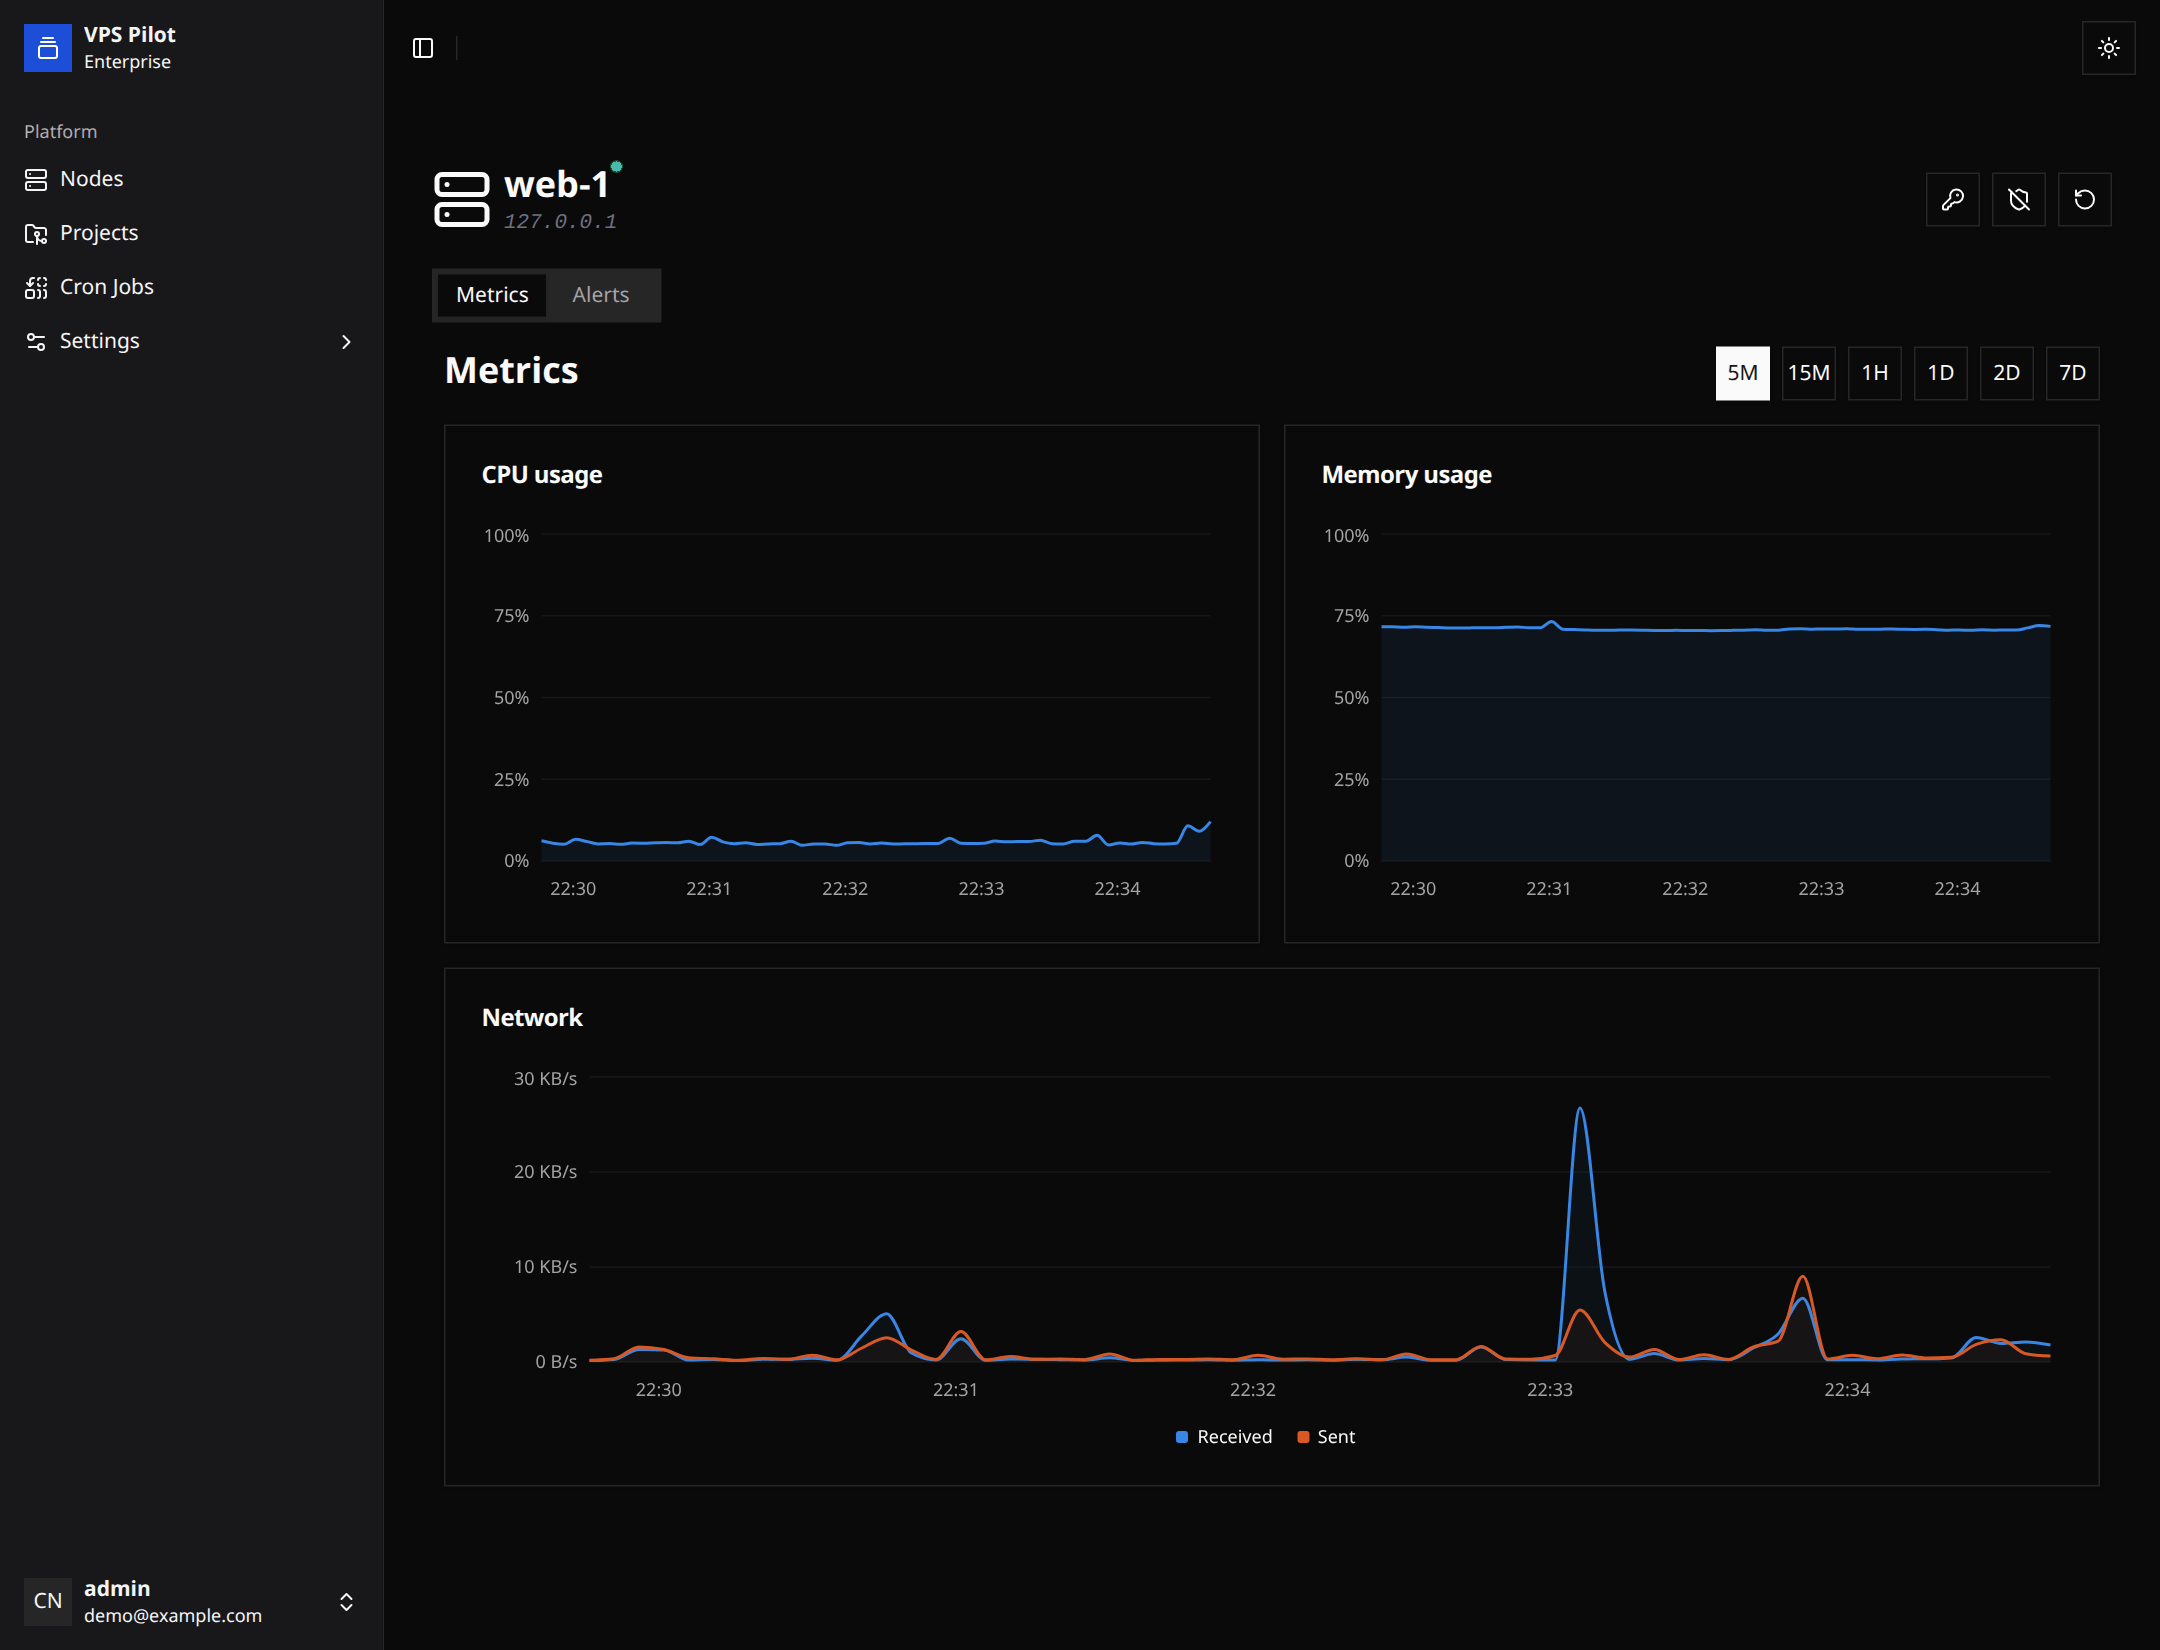
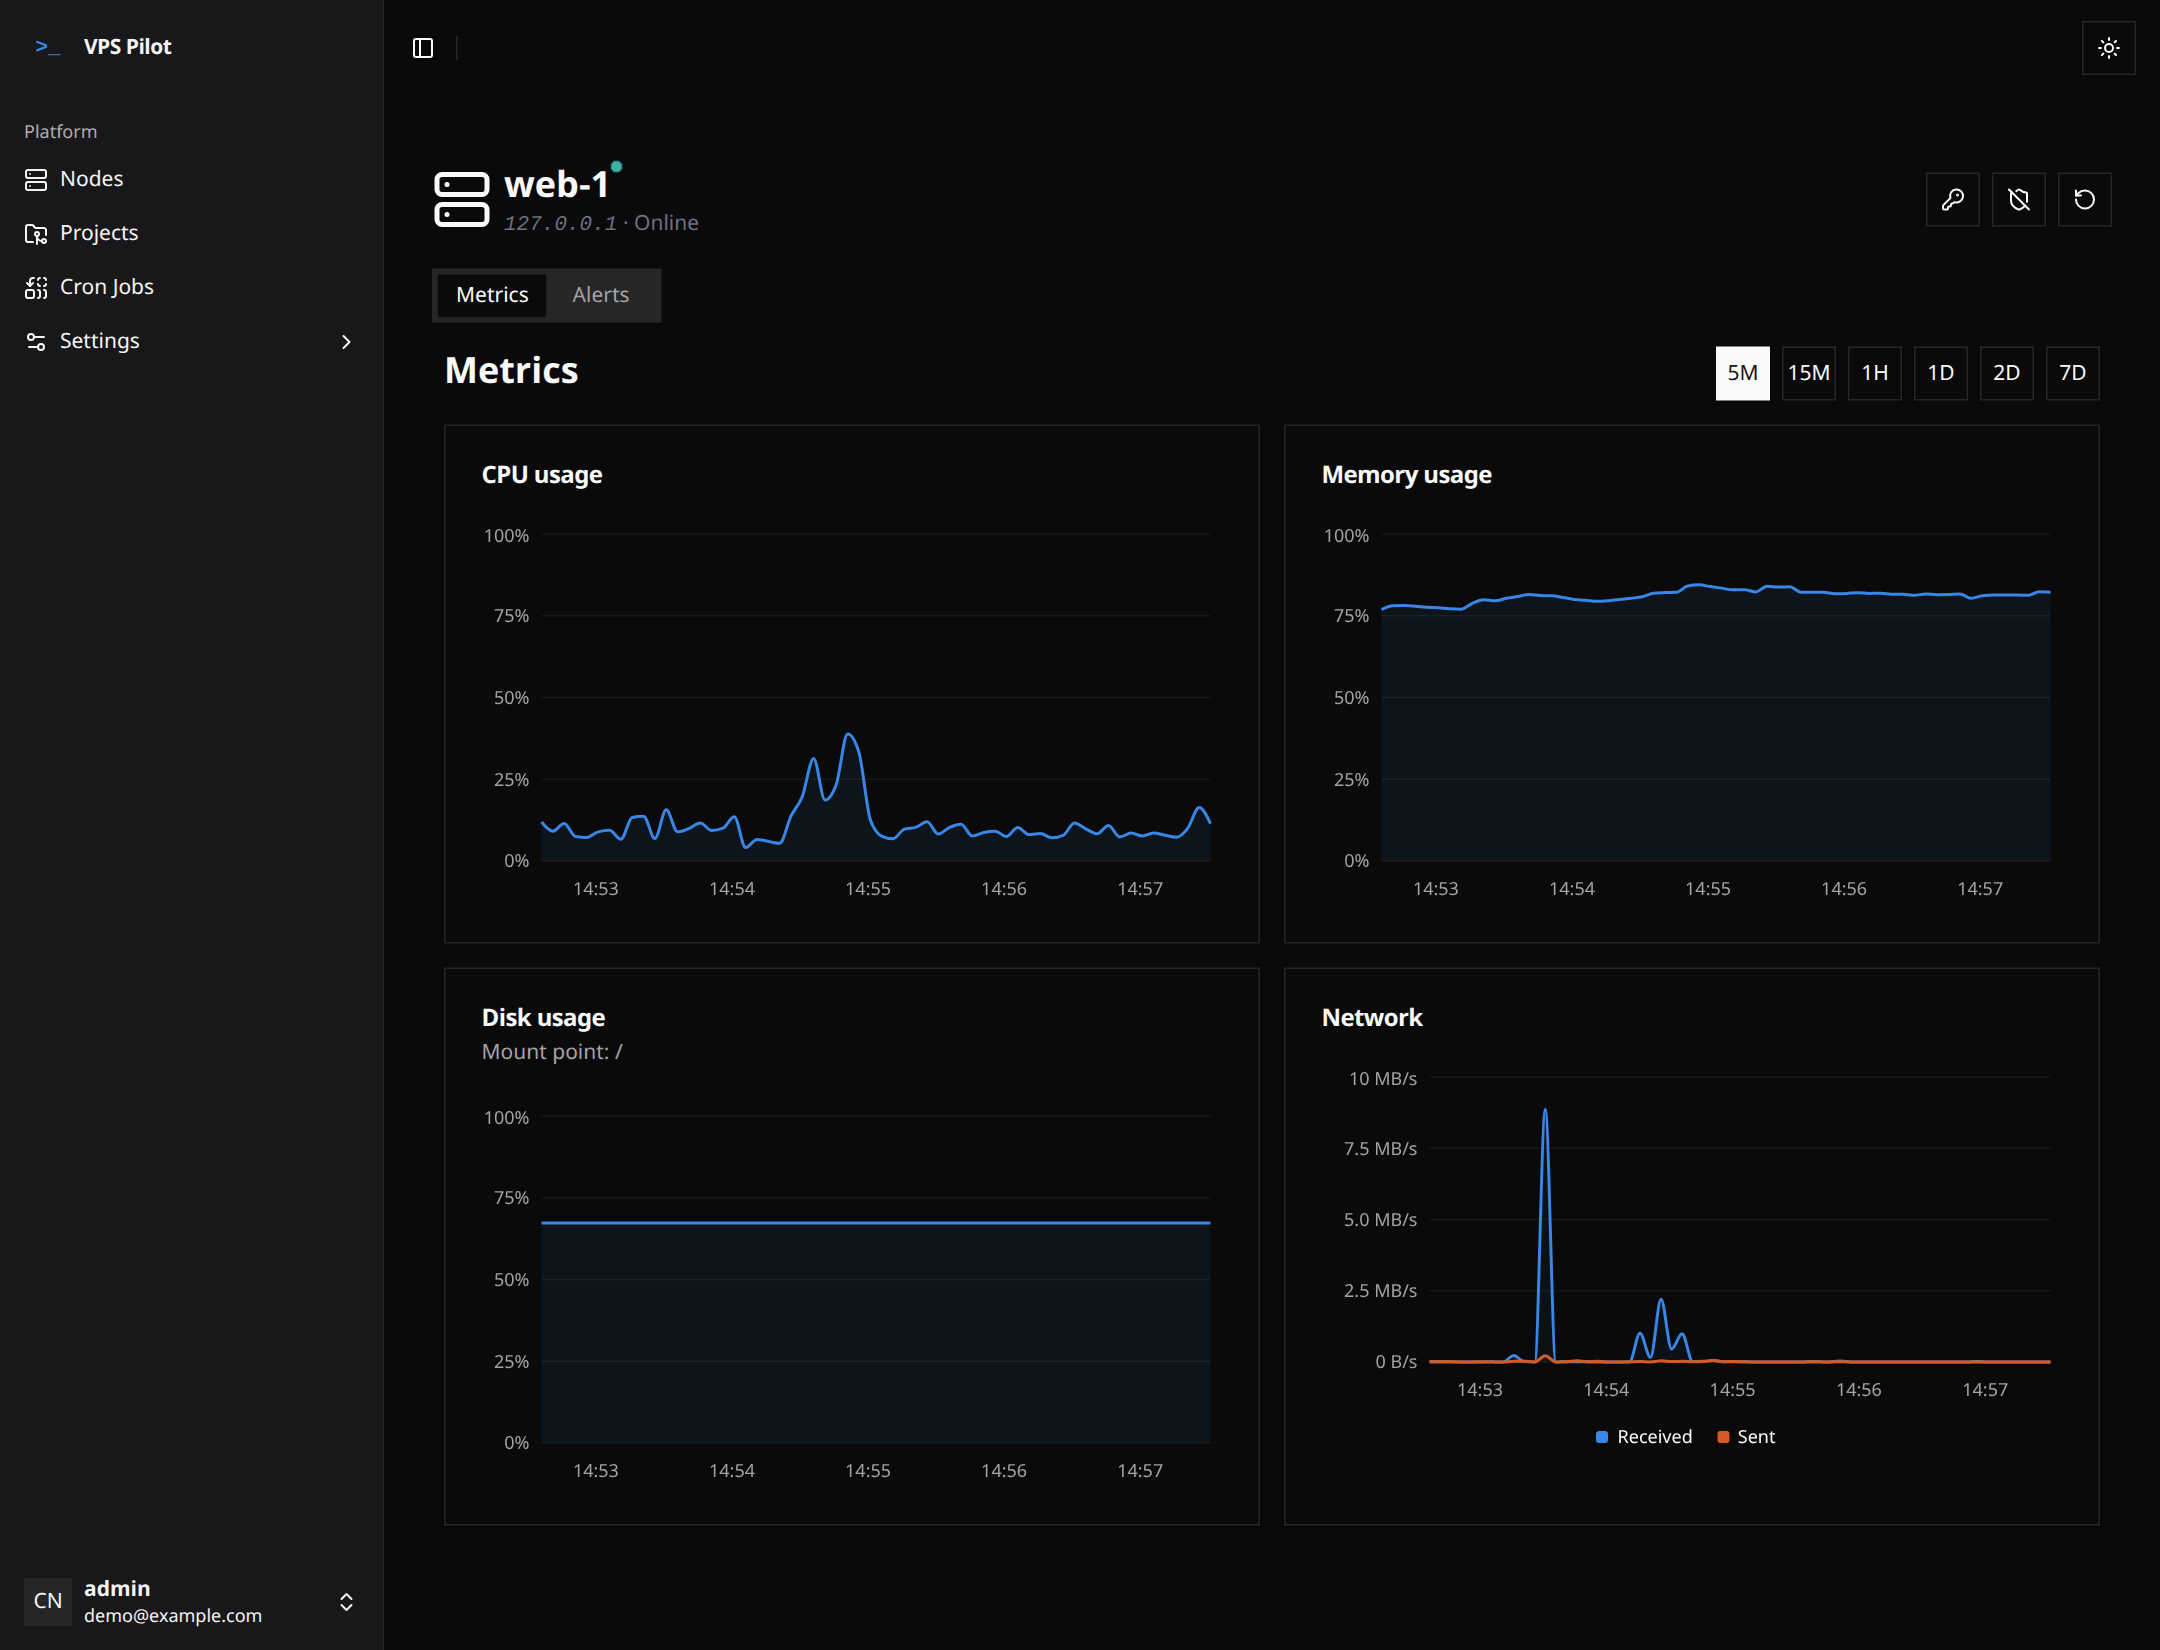
Release v0.2.0
CHANGELOG: date the v0.2.0 section and add upgrade notes. Website: show
v0.2.0 next to the logo, drop the "comes with v0.2.0" callouts, move
disk monitoring and the agent install script from soon to available on
the landing page, and retake the dashboard screenshots (disk chart,
online status, new sidebar).

diff --git a/site/layouts/index.html b/site/layouts/index.html
@@ -30,7 +30,7 @@
   <div class="container">
     {{- /* One screenshot per theme; CSS shows the one matching the page. */}}
     {{- if and (fileExists "static/screenshot-light.png") (fileExists "static/screenshot-dark.png") }}
-    {{- $alt := "The VPS Pilot dashboard showing CPU, memory and network charts for a server" }}
+    {{- $alt := "The VPS Pilot dashboard showing CPU, memory, disk and network charts for a server" }}
     <img class="screenshot screenshot-light" src="{{ "screenshot-light.png" | relURL }}" alt="{{ $alt }}" width="2160" height="1650" loading="lazy">
     <img class="screenshot screenshot-dark" src="{{ "screenshot-dark.png" | relURL }}" alt="{{ $alt }}" width="2160" height="1650" loading="lazy">
     {{- else }}

diff --git a/site/content/_index.md b/site/content/_index.md
@@ -7,9 +7,9 @@ pitch: One self-hosted dashboard for the handful of Linux servers you run. A sin
 # the code before moving anything from "soon" to "available".
 available:
   - title: Live metrics
-    text: CPU per core, memory and network traffic for every server, charted from the last 5 minutes to the last 7 days. Charts refresh every 10 seconds.
+    text: CPU per core, memory, disk and network traffic for every server, charted from the last 5 minutes to the last 7 days, and whether its agent is online right now. Charts refresh every 10 seconds.
   - title: Threshold alerts
-    text: Get a Discord, Slack or email message when CPU, memory or network traffic goes over your limit, with a wait you choose between repeats.
+    text: Get a Discord, Slack or email message when CPU, memory, disk or network traffic goes over your limit, with a wait you choose between repeats.
   - title: Project discovery
     text: The agent finds every config.vpspilot.json on the server. Scan settings per server, rescan on demand, and manual paths the agent checks itself.
   - title: Safe enrollment
@@ -17,15 +17,13 @@ available:
   - title: One binary hub
     text: Go, SQLite and the dashboard in a single executable. Seven days of metrics, no external database or service.
   - title: Tiny agent
-    text: One Rust binary per server. It dials out to the hub, so the server needs no open ports.
+    text: One Rust binary per server, installed as a systemd service with one command or a .deb. It dials out to the hub, so the server needs no open ports.
 
 soon:
   - Run the commands a project declares, by name, with live output and an audit log
   - Tail the log folders a project declares
   - Backups of declared folders, the env file and the database
   - Cron jobs declared per project
-  - Disk usage charts and alerts (the agent already reports disk usage)
-  - Install script and systemd unit for the agent
   - Docker Compose setup
   - Multiple users with roles
 

diff --git a/site/content/docs/agent.md b/site/content/docs/agent.md
@@ -16,23 +16,12 @@ Every five seconds (`--interval`) it sends:
 - network traffic sent and received, in bytes per second, across all
   interfaces except loopback
 
-{{< callout soon >}}
-The hub stores and charts disk usage, and alerts on it, from v0.2.0, which
-isn't released yet. The agent already sends it, so agents you install today
-will work with it.
-{{< /callout >}}
-
 When it connects, it also sends the hostname, OS, distribution and version,
 kernel version, CPU count and total memory. The hostname names the node the
 first time it enrolls. While the agent is connected, the dashboard shows the
 node as **Online**; otherwise it shows **Offline** and when it was last seen.
 
 ## Install
-
-{{< callout soon >}}
-The install script and the `.deb` package come with v0.2.0, which isn't
-released yet. Until then, install the agent [by hand](#by-hand).
-{{< /callout >}}
 
 ### With the install script
 

diff --git a/CHANGELOG.md b/CHANGELOG.md
@@ -6,6 +6,17 @@ User-facing changes to VPS Pilot. The format follows
 
 ## Unreleased
 
+## v0.2.0 - 2026-10-24
+
+### Upgrade notes
+- Upgrading the hub adds a `disk_stat` table to the timeseries database on
+  start. Agents from v0.1.x keep working and already send disk usage.
+- To move an agent you run by hand to the systemd service, stop it and run
+  `curl -fsSL https://vpspilot.dev/install-agent.sh | sudo sh -s -- --hub <hub>:55001`.
+  If it used the default state file (`/var/lib/vps-pilot-agent/state.json`),
+  it keeps its enrollment and needs no token. Otherwise use the command from
+  **Re-enroll agent**.
+
 ### Added
 - Disk usage: the hub stores the root filesystem's percent used, the
   Metrics tab charts it, and alerts can watch it (**Disk** metric). Agents

diff --git a/site/content/docs/scope.md b/site/content/docs/scope.md
@@ -12,7 +12,7 @@ lets you do the few things each project allows, and nothing more.
 
 | Capability | What it means | Status |
 | --- | --- | --- |
-| Monitor | CPU, memory, network and disk per server, live and over 5 minutes to 7 days | Available. Disk charts and alerts come with v0.2.0 |
+| Monitor | CPU, memory, network and disk per server, live and over 5 minutes to 7 days | Available |
 | Alert | Thresholds with notifications to Discord, Slack or email | Available for CPU, memory and network |
 | Run commands | Run a command *named* in `config.vpspilot.json` and stream its output | Coming soon |
 | Read logs | Tail the log folders a project declares | Coming soon |

diff --git a/site/content/docs/alerts.md b/site/content/docs/alerts.md
@@ -45,8 +45,7 @@ fired on any traffic. Upgrade the hub before relying on them.
 {{< /callout >}}
 
 {{< callout soon >}}
-Disk alerts come with v0.2.0, which isn't released yet. A history of past
-alerts is planned.
+A history of past alerts is planned.
 {{< /callout >}}
 
 ## Discord
